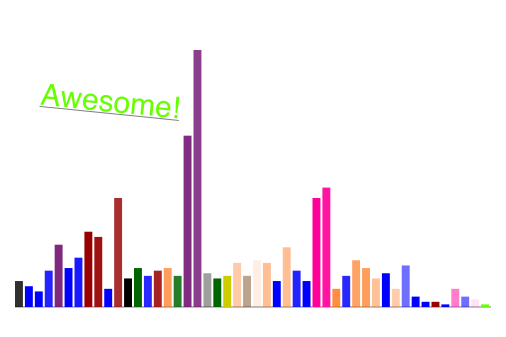
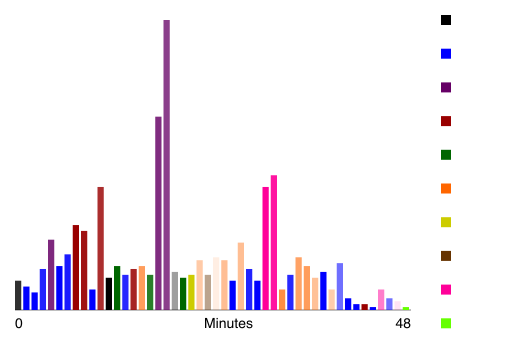
by hour

diff --git a/data_renderer.js b/data_renderer.js
@@ -8,8 +8,10 @@ var Image = Canvas.Image;
 var imageWidth = 506;
 var imageHeight = 337;
 var sidePadding = 15;
-
-var drawableWidth = imageWidth - 2 * sidePadding;
+var baselineY = 310;
+var topSpace = 20;
+var legendWidth = 80;
+var drawableWidth = imageWidth - 2 * sidePadding - legendWidth;
 
 var emotes = require('./twitch_json/1425242227267-#dotapit.json');
 //process for
@@ -47,6 +49,11 @@ for(var i = 0; i < numEmotes; i++){
     }
 }
 
+//for legend:
+// - emote name
+// - color
+// - ocurrences
+
 var canvas = new Canvas(imageWidth, imageHeight);
 ctx = canvas.getContext('2d');
 
@@ -54,33 +61,31 @@ ctx = canvas.getContext('2d');
 ctx.fillStyle = '#FFF';
 ctx.fillRect(0,0,imageWidth, imageHeight);
 
-ctx.fillStyle = '#000';
-
 //draw baseline
+ctx.fillStyle = '#000';
 ctx.beginPath();
-ctx.lineTo(0+sidePadding,307);
-ctx.lineTo(imageWidth - sidePadding,307);
+ctx.lineTo(0+sidePadding,baselineY);
+ctx.lineTo(sidePadding + drawableWidth,baselineY);
 ctx.strokeStyle = 'rgba(0,0,0,0.5)';
 ctx.stroke();
-
-
 
 //draw bars
 var curX = sidePadding;
 var barWidth = drawableWidth / numMinutes;
 var barHeight = 0;
 var curY = 0;
-var maxHeight = imageHeight - 50 - 30;
+var maxHeight = baselineY - topSpace;
 for(var i = 0; i < numMinutes; i++){
     //find highest number of ocurrences
     //scale bar height to 250px?
     //bar height = (ocurrences / max ocurrences) * 250px
     //calculate barHeight and use that to place initial Y coord
     var emoteName = emotes.minutes[minutes[i]].emoteName;
+    ctx.fillStyle = emoteSet[emoteName];
     var ocurrences = emotes.minutes[minutes[i]].ocurrences;
     var numUsers = emotes.minutes[minutes[i]].numUsers;
     barHeight = maxHeight * ocurrences / mostOcurrences;
-    curY = maxHeight - barHeight + 50;
+    curY = maxHeight - barHeight + topSpace;
 
     //set bar saturation via users / ocurrences
     //set transparency based on hive-mindey-ness
@@ -88,25 +93,49 @@ for(var i = 0; i < numMinutes; i++){
 
     //set color from emote
     console.log(emoteSet[emoteName]);
-    ctx.fillStyle = emoteSet[emoteName];
+
 
     ctx.fillRect(curX, curY, barWidth-2, barHeight);
     curX += barWidth;
 }
 
-//example code
-ctx.font = '30px Helvetica';
-ctx.rotate(.1);
-ctx.fillText("Awesome!", 50, 100);
 
-var te = ctx.measureText('Awesome!');
-ctx.strokeStyle = 'rgba(0,0,0,0.5)';
-ctx.beginPath();
-ctx.lineTo(50, 102);
-ctx.lineTo(50 + te.width, 102);
-ctx.stroke();
+//label minutes
+var baselineOffset = 18;
+ctx.fillStyle = "#000";
+ctx.font = '14px Helvetica';
+ctx.fillText("0",sidePadding, baselineY + baselineOffset);
+var lastMinute = Object.keys(emotes.minutes).length;
+ctx.fillText(lastMinute,  sidePadding + drawableWidth - ctx.measureText(lastMinute).width, baselineY + baselineOffset);
+ctx.fillText("Minutes", imageWidth/2 - ctx.measureText("Minutes").width, baselineY+baselineOffset);
 
-console.log('<img src="' + canvas.toDataURL() + '" />');
+//ctx.rotate(.1);
+//ctx.fillText("Awesome!", 50, 100);
+//
+//var te = ctx.measureText('Awesome!');
+//ctx.strokeStyle = 'rgba(0,0,0,0.5)';
+//ctx.beginPath();
+//ctx.lineTo(50, 102);
+//ctx.lineTo(50 + te.width, 102);
+//ctx.stroke();
+//
+//console.log('<img src="' + canvas.toDataURL() + '" />');
+
+//draw legend
+var curX = imageWidth - legendWidth + 15;
+var curY = 15;
+var rectSize = 10;
+for(var i = 0; i < numEmotes; i++){
+    //draw rectangle
+    //var emoteName = emotes.minutes[minutes[i]].emoteName;
+    boxY = curY + imageHeight / numEmotes - rectSize/2;
+    ctx.fillStyle = emoteSet[Object.keys(emoteSet)[i]];
+    ctx.fillRect(curX, curY, rectSize, rectSize);
+    //draw emote
+    //draw text
+
+    curY += imageHeight / numEmotes;
+}
 
 
 //save png

diff --git a/twitch_irc_bot.js b/twitch_irc_bot.js
@@ -8,10 +8,10 @@
 // - go to twitch.tv dota2 - DONE
 // - get channel name of most popular stream - DONE
 // - join channel on IRC - DONE
-// - collect data for one hour - partial
+// - collect data for one hour - DONE
 // - all emotes - DONE
-// - how many people in a single minute
-// - visualize
+// - how many people in a single minute - DONE
+// - visualize - partial
 // - post to twitter
 // - repeat
 
@@ -298,9 +298,14 @@ function parse_twitch_stream(c, channel_name, numViewers) {
             }
         }))
 
-        if(minute <= 60){
+        if(minute < 60){
          console.log("starting minute "+minute);
             minute_parser();
+        }
+        else{
+            //pass filename
+            //render and tweet
+            //close
         }
     }
 }
